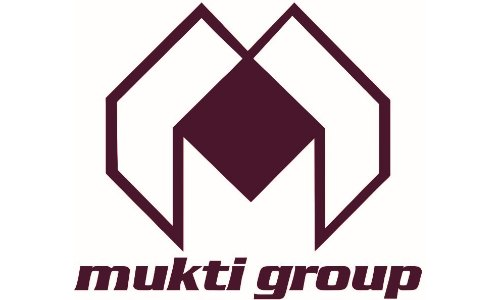
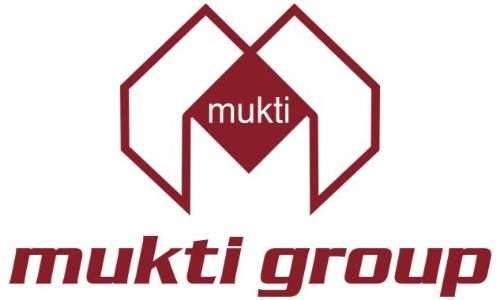
fixes 7 august

Changed region(s): [[0.0, 0.0, 0.99, 1.0]]

diff --git a/index.html b/index.html
@@ -17,15 +17,15 @@
 
         <!-- Header -->
         <header id="header" class="alt">
-            <h1 style="background-color: white;z-index: 999;margin-left: 100px;"><a href="index.html"><img src="images/site-logo.jpg" class="" height="120px;"></a></h1>
+            <h1 style="background-color: white;z-index: 999;margin-left: 100px;"><a href="index.html"><img src="images/logo-new.jpg" class="" height="120px;"></a></h1>
             <nav id="nav">
                 <ul>
-                    <li><a href="#aboutbutton">About Us</a></li>
-                    
+                    <li><a href="about.html">About Us</a></li>
+
                     <li>
                         <a href="#" class="icon solid fa-angle-down">Our Businesses</a>
                         <ul>
-                            <li><a href="realestate.html" target="_blank">Real Estate</a></li>
+                            <li><a href="realestate.html">Real Estate</a></li>
 
                             <li><a href="https://www.radisson.com/kolkata-hotel-wb-700019/indrdkb" target="_blank">Hospitality</a></li>
                             <li><a href="https://londonparis.in" target="_blank">Entertainment</a></li>
@@ -47,7 +47,7 @@
         <!-- Banner -->
         <section id="banner" style="z-index: -1;">
             <h2></h2>
-            <!--            <p><img src="images/site-logo.jpg" class="image " height="250px" width="250px"></p>-->
+            <!--            <p><img src="images/logo-new.jpg" class="image " height="250px" width="250px"></p>-->
             <ul class="actions special">
                 <!--                <li><a href="#" class="button primary">Sign Up</a></li>-->
                 <!--                <li><a href="#" class="button primary"><strong style="color: maroon; font-size: 1.2rem;font-weight: 400 !important;">MUKTI GROUP</strong></a></li>-->
@@ -75,12 +75,22 @@
             </section>
             <div class="row" style="text-align: center;">
                 <div class="" style="text-align: center;background-color: white;margin-bottom: 30px; width: 100%;padding-right: 2em;">
-                    <h2><strong style="color: maroon !important;">OUR BUSINESSES</strong></h2>
 
                 </div>
-               
+
+                <div class="col-12">
+                    <div style="background-color: white">
+                        <h2><strong style="color: maroon !important;">OUR BUSINESSES</strong></h2>
+                    </div>
+
+                </div>
+
+
+
+
 
                 <div class="col-4 col-12-narrower">
+
 
                     <section class="box special">
                         <h3>REAL ESTATE</h3>
@@ -117,90 +127,21 @@
                     </section>
 
                 </div>
-                
-                
-<!--                Second row starts here-->
-                
-<!--
-                  <div class="col-4 col-12-narrower">
 
-                    <section class="box special">
-                        <h3>CSR</h3>
-                        <span class="image fit "><img src="images/csr.png" width="100%" alt="" /></span>
-
-                        <ul class="actions special">
-                            <li><a href="csr.html" class="button alt">Learn More</a></li>
-                        </ul>
-                    </section>
-
+                <div class="col-12 col-12-mobilep" style="">
+                    <div style="text-align: center;background: white; margin-bottom: 20px;">If you would like to join a dynamic and fast growing organisation and have a fire
+                        burning inside you, do send your profile to <strong>hrd@muktigroup.in</strong>
+                        <br> We are currently hiring for
+                        exciting talent in the Operations and Sales teams for our Hotel and Multiplex.</div>
                 </div>
-                <div class="col-4 col-12-narrower">
+                <br>
 
-                    <section class="box special">
-                        <h3>MEDIA</h3>
-                        <span class="image fit "><img src="images/media.png" width="100%;" alt="" /></span>
-
-                        <ul class="actions special">
-                            <li><a href="media.html" class="button alt">Learn More</a></li>
-                        </ul>
-                    </section>
-
-                </div>
-                <div class="col-4 col-12-narrower">
-
-
-                    <section class="box special">
-                        <h3>CAREERS</h3>
-                        <span class="image fit "><img src="images/careers.png" width="100%" alt="" /></span>
-
-                        <ul class="actions special">
-                            <li><a href="careers.html" class="button alt">Learn More</a></li>
-                        </ul>
-                    </section>
-
-                </div>
--->
 
 
             </div>
 
 
-<!--
-            <section class="box special features">
-                <div class="features-row">
-                    <section>
-                        <span class="icon major fa-user accent2"></span>
-                        <h3>ABOUT US</h3>
-                        <ul class="actions special">
-                            <li><a href="about.html" class="button alt">Learn More</a></li>
-                        </ul>
-                    </section>
-                    <section>
-                        <span class="icon major fa-users accent5"></span>
-                        <h3>CSR</h3>
-                        <ul class="actions special">
-                            <li><a href="csr.html" class="button alt">Learn More</a></li>
-                        </ul>
-                    </section>
-                </div>
-                <div class="features-row">
-                    <section>
-                        <span class="icon major fa-camera accent4"></span>
-                        <h3>MEDIA</h3>
-                        <ul class="actions special">
-                            <li><a href="media.html" class="button alt">Learn More</a></li>
-                        </ul>
-                    </section>
-                    <section>
-                        <span class="icon major fa-users accent5"></span>
-                        <h3>CAREERS</h3>
-                        <ul class="actions special">
-                            <li><a href="#cta" class="button alt">Learn More</a></li>
-                        </ul>
-                    </section>
-                </div>
-            </section>
--->
+
 
 
         </section>
@@ -218,35 +159,43 @@
 
         <!-- Footer -->
         <footer id="footer">
-      
+
             <div class="row">
-            <div class="col-6 col-12-narrower">
-                
-                <p>Corporate &nbsp;  Office :&nbsp; Mukti World , 9/3B Gariahat Road ,<br> Kolkata - 700019</p>
-               
-                <i class="fa fa-phone"></i> &nbsp; 033 4060 7379 / 80
-                <br>
-                <br>
-                <i class="fa fa-envelope"></i>&nbsp; &nbsp;<a  href="mailto:contact@muktigroup.in"> contact@muktigroup.in</a>
-               <ul class="copyright">
-               
-                <li> </li>
-                <li></li>
-                <br >
-                <br>
-                <p style="margin-top: 10%;">&copy; <script>
-                        document.write(new Date().getFullYear())
-                    </script><a href="http://duotoneinc.com/" target="_blank"> Duotone Inc   </a></p>
-                <li style="display: none">Design: <a href="http://riju.co">Riju Pramanik</a></li>
-            </ul>
-            
-            </div>
-            <div class="col-6 col-12-narrower">
-              <div ><br><iframe width="490" height="350" src="https://maps.google.com/maps?width=300&amp;height=300&amp;hl=en&amp;q=Mukti%20Group%2C%20Kolkata+(Mukti%20Group)&amp;ie=UTF8&amp;t=&amp;z=14&amp;iwloc=B&amp;output=embed" frameborder="0" scrolling="no" marginheight="0" marginwidth="0"></iframe><div style="position: absolute;width: 80%;bottom: 10px;left: 0;right: 0;margin-left: auto;margin-right: auto;color: #000;text-align: center;"></div><style>#gmap_canvas img{max-width:none!important;background:none!important}</style></div><br />
-            
-            </div>
+                <div class="col-6 col-12-narrower">
+
+                    <p>Corporate &nbsp; Office :&nbsp; Mukti World , 9/3B Gariahat Road ,<br> Kolkata - 700019</p>
+
+                    <i class="fa fa-phone"></i> &nbsp; 033 4060 7379 / 80
+                    <br>
+                    <br>
+                    <i class="fa fa-envelope"></i>&nbsp; &nbsp;<a href="mailto:contact@muktigroup.in"> contact@muktigroup.in</a>
+                    <ul class="copyright">
+
+                        <li> </li>
+                        <li></li>
+                        <br>
+                        <br>
+                        <p style="margin-top: 10%;">&copy; <script>
+                                document.write(new Date().getFullYear())
+                            </script><a href="http://duotoneinc.com" target="_blank">Duotone Inc</a><a href="https://riju.co" target="_blank">.</a></p>
+                        <li style="display: none">Design: <a href="http://riju.co">Riju Pramanik</a></li>
+                    </ul>
+
                 </div>
-         
+                <div class="col-6 col-12-narrower">
+                    <div><br><iframe width="490" height="350" src="https://maps.google.com/maps?width=300&amp;height=300&amp;hl=en&amp;q=Mukti%20Group%2C%20Kolkata+(Mukti%20Group)&amp;ie=UTF8&amp;t=&amp;z=14&amp;iwloc=B&amp;output=embed" frameborder="0" scrolling="no" marginheight="0" marginwidth="0"></iframe>
+                        <div style="position: absolute;width: 80%;bottom: 10px;left: 0;right: 0;margin-left: auto;margin-right: auto;color: #000;text-align: center;"></div>
+                        <style>
+                            #gmap_canvas img {
+                                max-width: none !important;
+                                background: none !important
+                            }
+                        </style>
+                    </div><br />
+
+                </div>
+            </div>
+
         </footer>
 
     </div>

diff --git a/realestate.html b/realestate.html
@@ -16,15 +16,15 @@
 
         <!-- Header -->
           <header id="header" class="alt">
-            <h1 style="background-color: white;z-index: 999;margin-left: 100px;"><a href="index.html"><img src="images/site-logo.jpg" class="" height="120px;"></a></h1>
+            <h1 style="background-color: white;z-index: 999;margin-left: 100px;"><a href="index.html"><img src="images/logo-new.jpg" class="" height="120px;"></a></h1>
             <nav id="nav">
                 <ul>
-                    <li><a href="#aboutbutton">About Us</a></li>
+                    <li><a href="about.html">About Us</a></li>
                     
                     <li>
                         <a href="#" class="icon solid fa-angle-down">Our Businesses</a>
                         <ul>
-                            <li><a href="realestate.html" target="_blank">Real Estate</a></li>
+                            <li><a href="realestate.html" >Real Estate</a></li>
 
                             <li><a href="https://www.radisson.com/kolkata-hotel-wb-700019/indrdkb" target="_blank">Hospitality</a></li>
                             <li><a href="https://londonparis.in" target="_blank">Entertainment</a></li>
@@ -154,7 +154,7 @@
                 <br>
                 <p style="margin-top: 10%;">&copy; <script>
                         document.write(new Date().getFullYear())
-                    </script><a href="http://duotoneinc.com/" target="_blank"> Duotone Inc   </a></p>
+                    </script><a href="http://duotoneinc.com" target="_blank">Duotone Inc</a><a href="https://riju.co" target="_blank">.</a></p>
                 <li style="display: none">Design: <a href="http://riju.co">Riju Pramanik</a></li>
             </ul>
             

diff --git a/careers.html b/careers.html
@@ -17,15 +17,15 @@
 
         <!-- Header -->
         <header id="header" class="alt">
-            <h1 style="background-color: white;z-index: 999;margin-left: 100px;"><a href="index.html"><img src="images/site-logo.jpg" class="" height="120px;"></a></h1>
+            <h1 style="background-color: white;z-index: 999;margin-left: 100px;"><a href="index.html"><img src="images/logo-new.jpg" class="" height="120px;"></a></h1>
             <nav id="nav">
                 <ul>
-                    <li><a href="#aboutbutton">About Us</a></li>
+                    <li><a href="about.html">About Us</a></li>
                     
                     <li>
                         <a href="#" class="icon solid fa-angle-down">Our Businesses</a>
                         <ul>
-                            <li><a href="realestate.html" target="_blank">Real Estate</a></li>
+                            <li><a href="realestate.html" >Real Estate</a></li>
 
                             <li><a href="https://www.radisson.com/kolkata-hotel-wb-700019/indrdkb" target="_blank">Hospitality</a></li>
                             <li><a href="https://londonparis.in" target="_blank">Entertainment</a></li>
@@ -106,7 +106,7 @@
                 <br>
                 <p style="margin-top: 10%;">&copy; <script>
                         document.write(new Date().getFullYear())
-                    </script><a href="http://duotoneinc.com/" target="_blank"> Duotone Inc   </a></p>
+                    </script><a href="http://duotoneinc.com" target="_blank">Duotone Inc</a><a href="https://riju.co" target="_blank">.</a></p>
                 <li style="display: none">Design: <a href="http://riju.co">Riju Pramanik</a></li>
             </ul>
             

diff --git a/csr.html b/csr.html
@@ -18,15 +18,15 @@
 
         <!-- Header -->
         <header id="header" class="alt">
-            <h1 style="background-color: white;z-index: 999;margin-left: 100px;"><a href="index.html"><img src="images/site-logo.jpg" class="" height="120px;"></a></h1>
+            <h1 style="background-color: white;z-index: 999;margin-left: 100px;"><a href="index.html"><img src="images/logo-new.jpg" class="" height="120px;"></a></h1>
             <nav id="nav">
                 <ul>
-                    <li><a href="#aboutbutton">About Us</a></li>
+                    <li><a href="about.html">About Us</a></li>
                     
                     <li>
                         <a href="#" class="icon solid fa-angle-down">Our Businesses</a>
                         <ul>
-                            <li><a href="realestate.html" target="_blank">Real Estate</a></li>
+                            <li><a href="realestate.html" >Real Estate</a></li>
 
                             <li><a href="https://www.radisson.com/kolkata-hotel-wb-700019/indrdkb" target="_blank">Hospitality</a></li>
                             <li><a href="https://londonparis.in" target="_blank">Entertainment</a></li>
@@ -190,7 +190,7 @@
                 <br>
                 <p style="margin-top: 10%;">&copy; <script>
                         document.write(new Date().getFullYear())
-                    </script><a href="http://duotoneinc.com/" target="_blank"> Duotone Inc   </a></p>
+                    </script><a href="http://duotoneinc.com" target="_blank">Duotone Inc</a><a href="https://riju.co" target="_blank">.</a></p>
                 <li style="display: none">Design: <a href="http://riju.co">Riju Pramanik</a></li>
             </ul>
             

diff --git a/media.html b/media.html
@@ -18,15 +18,15 @@
 
         <!-- Header -->
        <header id="header" class="alt">
-            <h1 style="background-color: white;z-index: 999;margin-left: 100px;"><a href="index.html"><img src="images/site-logo.jpg" class="" height="120px;"></a></h1>
+            <h1 style="background-color: white;z-index: 999;margin-left: 100px;"><a href="index.html"><img src="images/logo-new.jpg" class="" height="120px;"></a></h1>
             <nav id="nav">
                 <ul>
-                    <li><a href="#aboutbutton">About Us</a></li>
+                    <li><a href="about.html">About Us</a></li>
                     
                     <li>
                         <a href="#" class="icon solid fa-angle-down">Our Businesses</a>
                         <ul>
-                            <li><a href="realestate.html" target="_blank">Real Estate</a></li>
+                            <li><a href="realestate.html" >Real Estate</a></li>
 
                             <li><a href="https://www.radisson.com/kolkata-hotel-wb-700019/indrdkb" target="_blank">Hospitality</a></li>
                             <li><a href="https://londonparis.in" target="_blank">Entertainment</a></li>
@@ -112,7 +112,7 @@
                 <br>
                 <p style="margin-top: 10%;">&copy; <script>
                         document.write(new Date().getFullYear())
-                    </script><a href="http://duotoneinc.com/" target="_blank"> Duotone Inc   </a></p>
+                    </script><a href="http://duotoneinc.com" target="_blank">Duotone Inc</a><a href="https://riju.co" target="_blank">.</a></p>
                 <li style="display: none">Design: <a href="http://riju.co">Riju Pramanik</a></li>
             </ul>
             

diff --git a/about.html b/about.html
@@ -16,15 +16,15 @@
 
         <!-- Header -->
              <header id="header" class="alt">
-            <h1 style="background-color: white;z-index: 999;margin-left: 100px;"><a href="index.html"><img src="images/site-logo.jpg" class="" height="120px;"></a></h1>
+            <h1 style="background-color: white;z-index: 999;margin-left: 100px;"><a href="index.html"><img src="images/logo-new.jpg" class="" height="120px;"></a></h1>
             <nav id="nav">
                 <ul>
-                    <li><a href="#aboutbutton">About Us</a></li>
+                    <li><a href="#">About Us</a></li>
                     
                     <li>
                         <a href="#" class="icon solid fa-angle-down">Our Businesses</a>
                         <ul>
-                            <li><a href="realestate.html" target="_blank">Real Estate</a></li>
+                            <li><a href="realestate.html" >Real Estate</a></li>
 
                             <li><a href="https://www.radisson.com/kolkata-hotel-wb-700019/indrdkb" target="_blank">Hospitality</a></li>
                             <li><a href="https://londonparis.in" target="_blank">Entertainment</a></li>
@@ -141,7 +141,7 @@
                 <br>
                 <p style="margin-top: 10%;">&copy; <script>
                         document.write(new Date().getFullYear())
-                    </script><a href="http://duotoneinc.com/" target="_blank"> Duotone Inc   </a></p>
+                    </script><a href="http://duotoneinc.com" target="_blank">Duotone Inc</a><a href="https://riju.co" target="_blank">.</a></p>
                 <li style="display: none">Design: <a href="http://riju.co">Riju Pramanik</a></li>
             </ul>
             

diff --git a/assets/css/main.css b/assets/css/main.css
@@ -3296,7 +3296,7 @@
 /* CTA */
 
 	#cta {
-		background: aliceblue;
+		background: #f0e8e8;
 		color: maroon;
 		padding: 3.5em 0 4em 0;
 		text-align: center;
